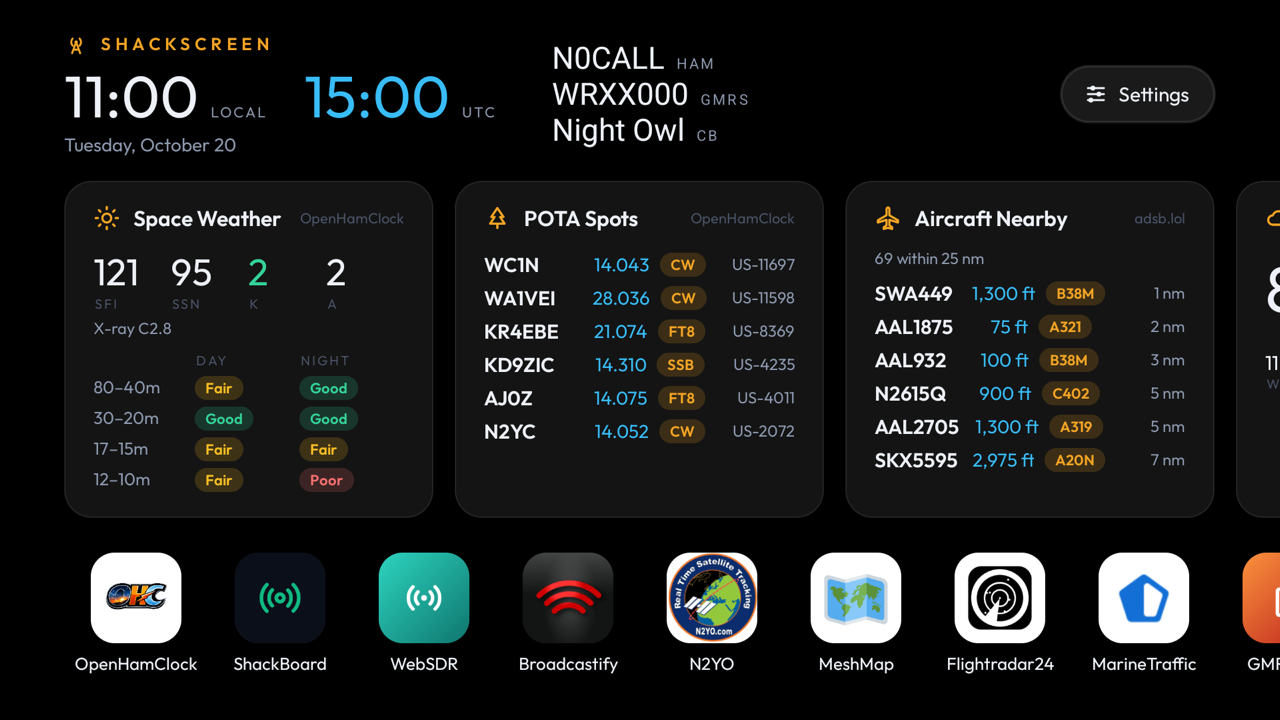
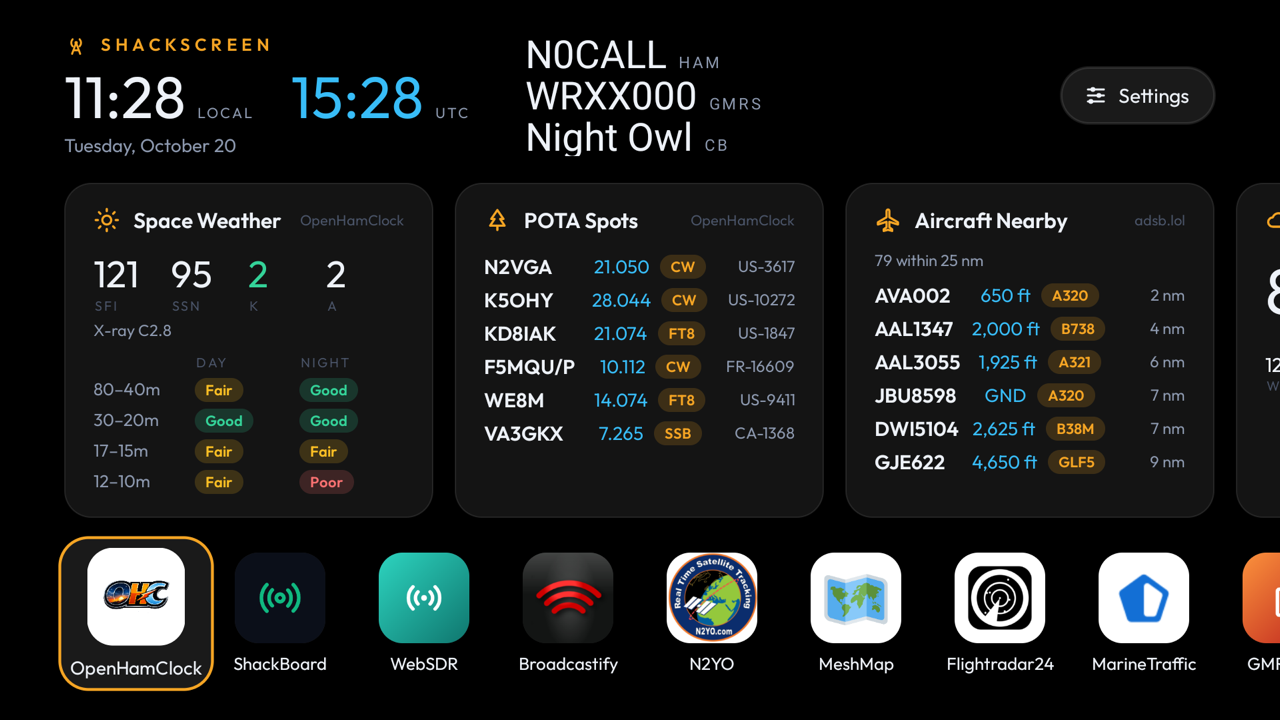
0.8.1: bigger call signs and CB handle; new home screenshots

diff --git a/app/src/main/java/com/maxhayim/shackscreen/CallSigns.java b/app/src/main/java/com/maxhayim/shackscreen/CallSigns.java
@@ -44,7 +44,12 @@ final class CallSigns {
         }
         for (String[] f : FIELDS) {
             String v = get(c, f[0]);
-            if (!v.isEmpty()) box.addView(row(c, f[1], v, true));
+            if (!v.isEmpty()) {
+                // Rows sit close together so three of them stay within the clock's height.
+                LinearLayout.LayoutParams lp = new LinearLayout.LayoutParams(LinearLayout.LayoutParams.WRAP_CONTENT, LinearLayout.LayoutParams.WRAP_CONTENT);
+                lp.bottomMargin = -Math.round(3 * c.getResources().getDisplayMetrics().density);
+                box.addView(row(c, f[1], v, true), lp);
+            }
         }
     }
 
@@ -55,14 +60,14 @@ final class CallSigns {
         r.setBaselineAligned(true);
         TextView v = new TextView(c);
         v.setText(value);
-        v.setTextSize(TypedValue.COMPLEX_UNIT_SP, big ? 23 : 17);
+        v.setTextSize(TypedValue.COMPLEX_UNIT_SP, big ? 29 : 17);
         v.setTextColor(Icons.color(c, big ? R.color.text : R.color.dim));
         v.setSingleLine(true);
         v.setIncludeFontPadding(false);
         r.addView(v);
         TextView l = new TextView(c);
         l.setText(label);
-        l.setTextSize(TypedValue.COMPLEX_UNIT_SP, 11);
+        l.setTextSize(TypedValue.COMPLEX_UNIT_SP, 12);
         l.setLetterSpacing(0.15f);
         l.setAllCaps(true);
         l.setTextColor(Icons.color(c, R.color.dim));
